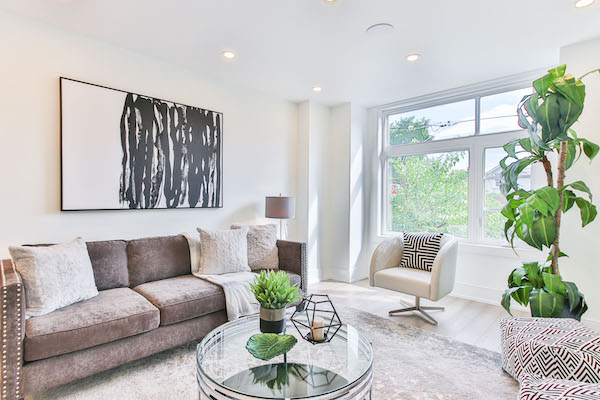
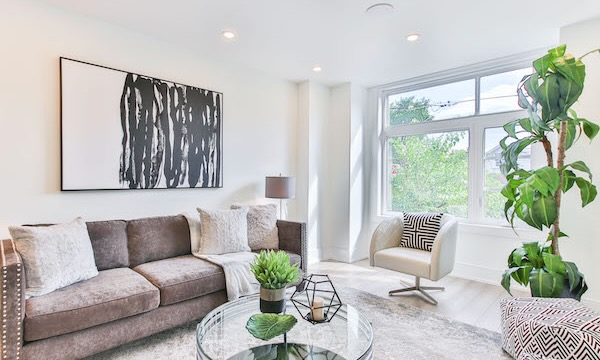
feat: Ideaの画像サイズを統一

diff --git a/src/styles/idea.module.css b/src/styles/idea.module.css
@@ -6,8 +6,6 @@
 
 .idea a img {
   width: 100%;
-  height: 170px;
-  object-fit: cover;
 }
 
 .idea a img:hover {
